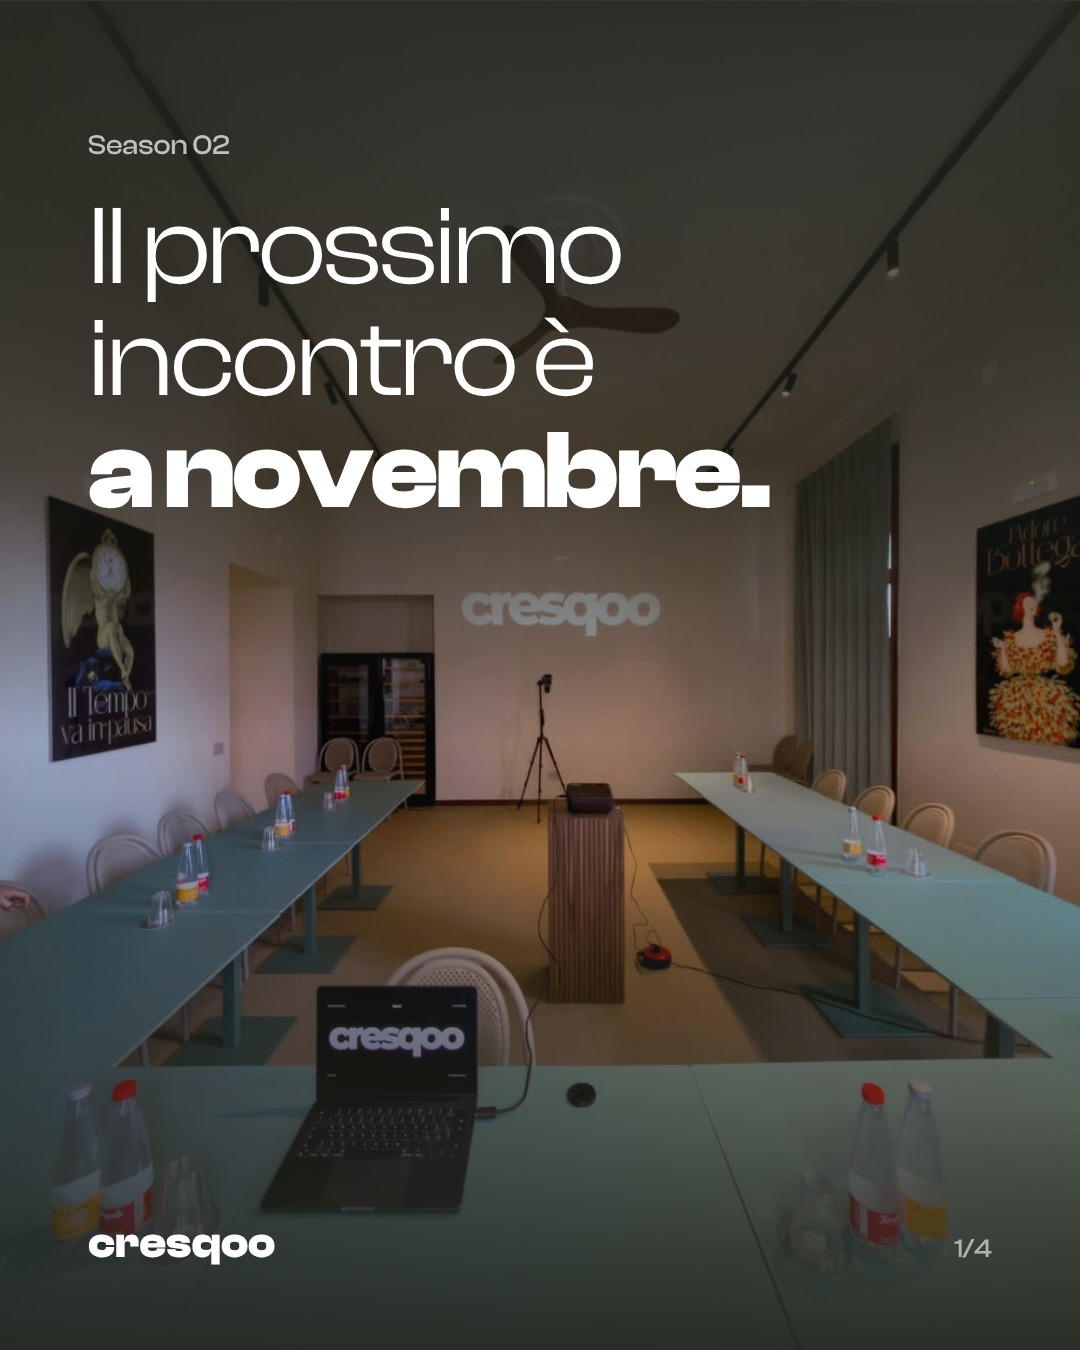
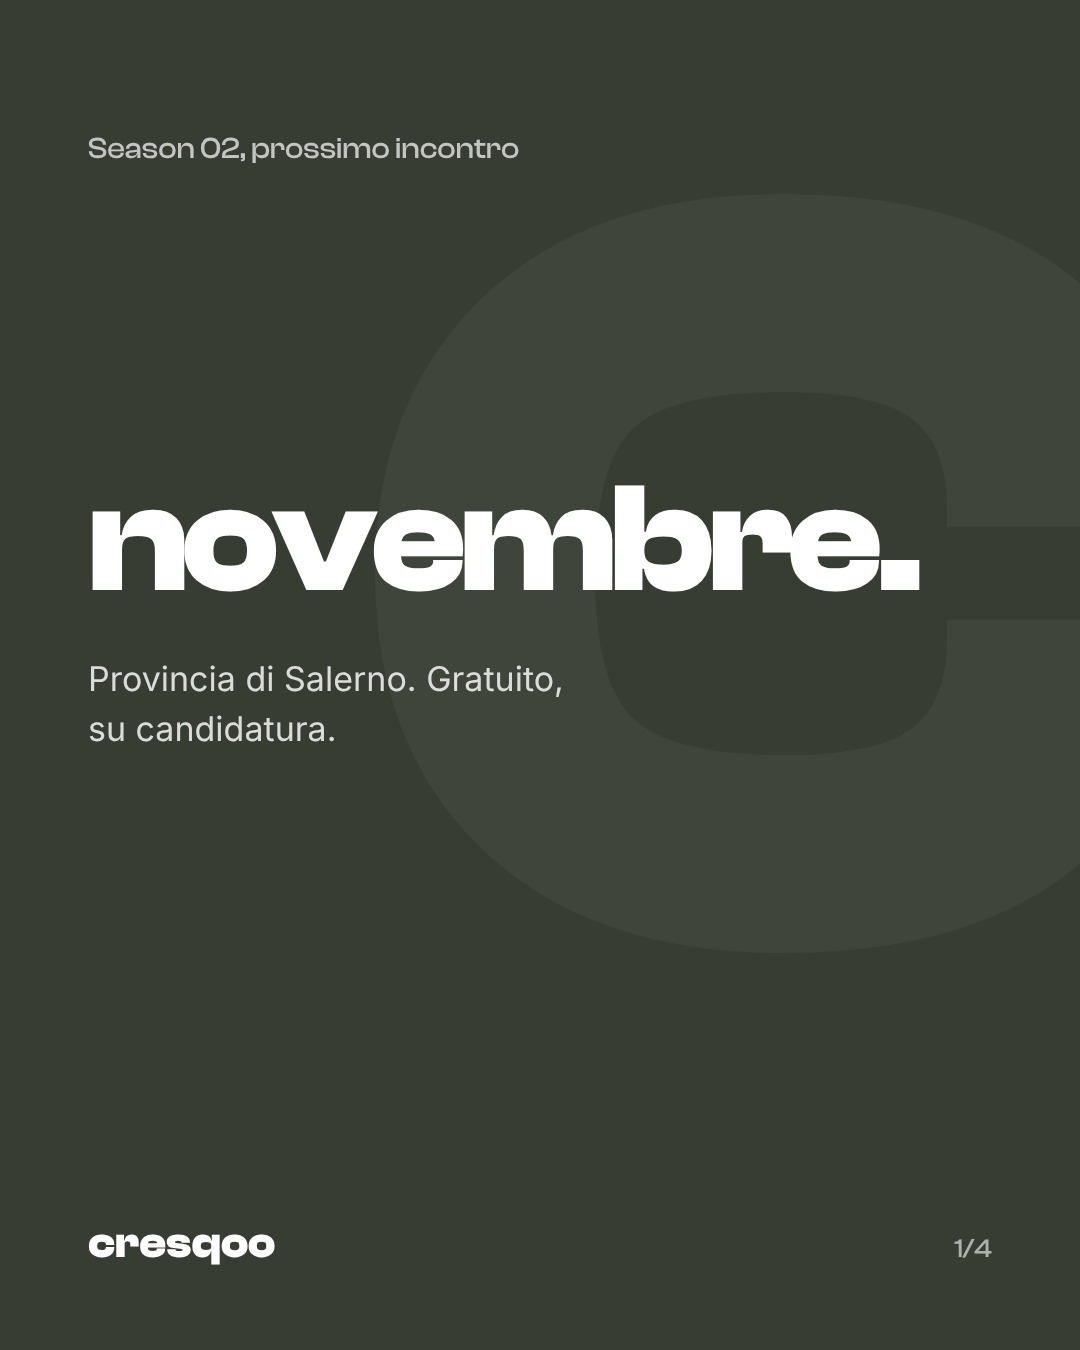
FAQ: incontri a cadenza periodica
Claude-Session: https://claude.ai/code/session_01EDir4shzvhGnct4t3jNxqr

diff --git a/index.html b/index.html
@@ -570,7 +570,7 @@ section.gallery .wrap{max-width:1120px;padding-left:max(20px,env(safe-area-inset
         <details><summary>Quanto costa partecipare?</summary><div>La partecipazione è gratuita.</div></details>
         <details><summary>Serve avere un'azienda?</summary><div>No. Partecipano anche liberi professionisti, dipendenti che stanno pensando di mettersi in proprio e studenti.</div></details>
         <details><summary>Perché è necessario candidarsi?</summary><div>Gli incontri sono a numero chiuso. Selezioniamo i partecipanti per riunire ogni volta competenze ed esperienze diverse.</div></details>
-        <details><summary>Quando e dove si svolge?</summary><div>A novembre, in provincia di Salerno. Data, orario e luogo vengono comunicati su WhatsApp ai partecipanti confermati.</div></details>
+        <details><summary>Quando e dove si svolge?</summary><div>A cadenza periodica, in provincia di Salerno. Data, orario e luogo vengono comunicati su WhatsApp ai partecipanti confermati.</div></details>
       </div>
     </div>
   </section>
